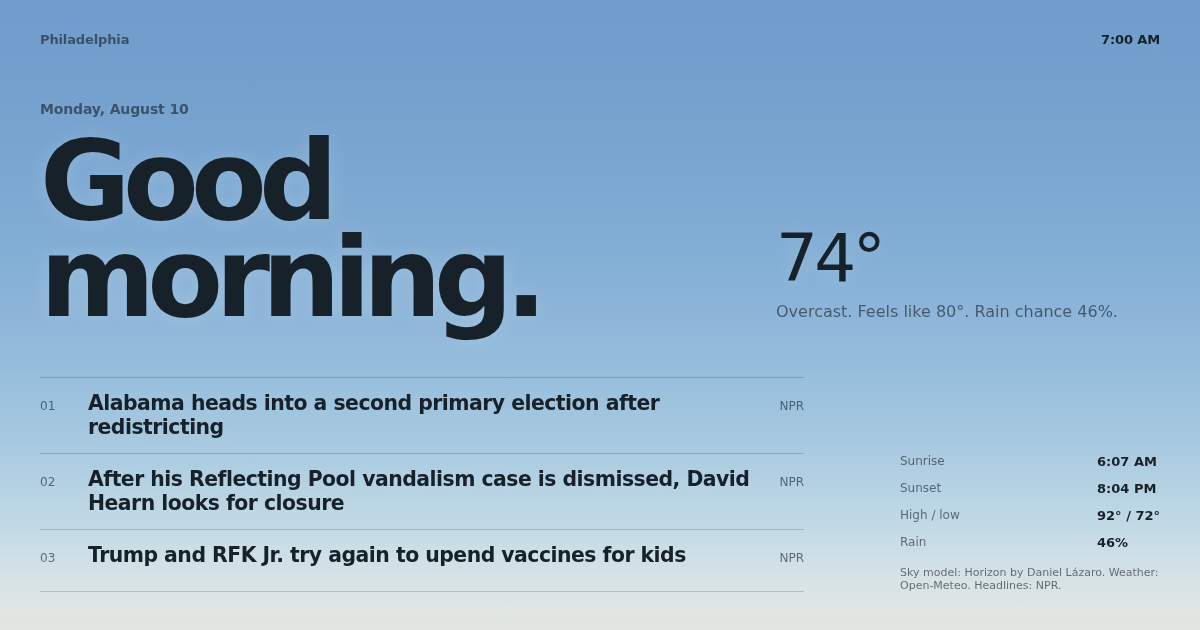
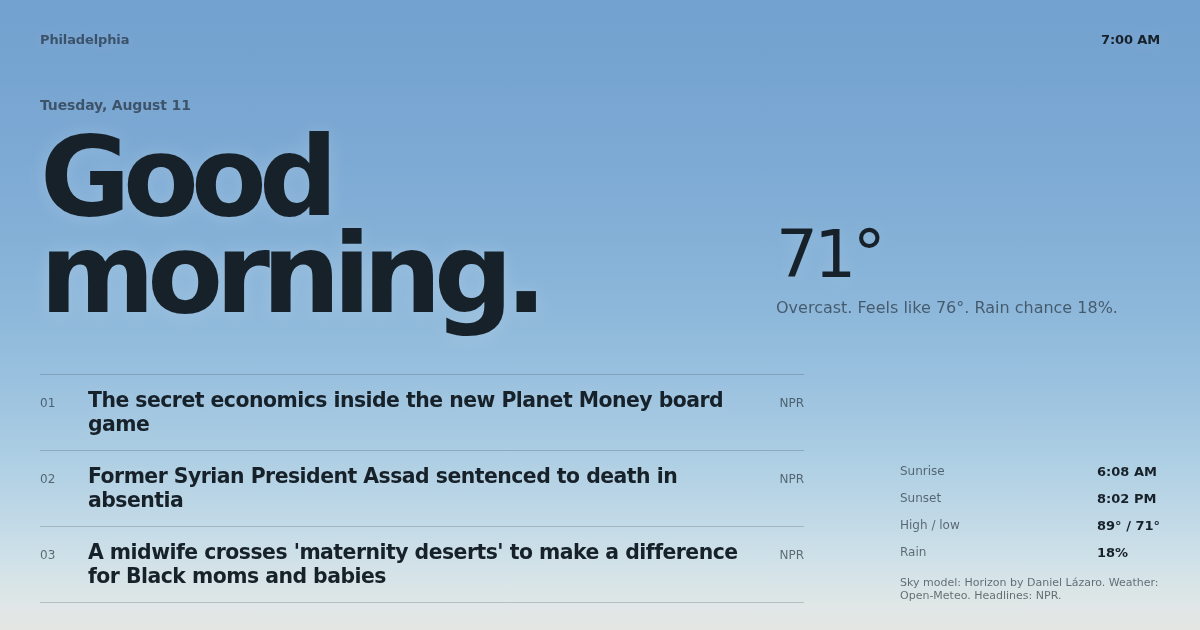
chore: refresh morning briefing 2026-08-11

diff --git a/index.html b/index.html
@@ -5,17 +5,17 @@
   <meta name="viewport" content="width=device-width, initial-scale=1">
   <meta name="color-scheme" content="light dark">
   <meta name="theme-color" content="#7595b2">
-  <meta name="description" content="Philadelphia morning briefing for 2026-08-10: Overcast. Feels like 80°. Rain chance 46%.">
+  <meta name="description" content="Philadelphia morning briefing for 2026-08-11: Overcast. Feels like 76°. Rain chance 18%.">
   <meta property="og:type" content="website">
   <meta property="og:title" content="Philadelphia morning briefing">
-  <meta property="og:description" content="Overcast. Feels like 80°. Rain chance 46%. Three stories for Monday, August 10.">
-  <meta property="og:url" content="https://evan-luther.github.io/morning-briefing/?date=2026-08-10">
-  <meta property="og:image" content="https://evan-luther.github.io/morning-briefing/briefing.png?v=2026-08-10">
+  <meta property="og:description" content="Overcast. Feels like 76°. Rain chance 18%. Three stories for Tuesday, August 11.">
+  <meta property="og:url" content="https://evan-luther.github.io/morning-briefing/?date=2026-08-11">
+  <meta property="og:image" content="https://evan-luther.github.io/morning-briefing/briefing.png?v=2026-08-11">
   <meta property="og:image:width" content="1200">
   <meta property="og:image:height" content="630">
   <meta property="og:image:alt" content="Philadelphia morning sky with today's briefing">
   <meta name="twitter:card" content="summary_large_image">
-  <title>Morning Briefing | Monday, August 10</title>
+  <title>Morning Briefing | Tuesday, August 11</title>
   <style>
     :root {
       --horizon: linear-gradient(to bottom, #7595b2, #dbb69d);
@@ -195,27 +195,27 @@
 
     <section class="lead" aria-labelledby="greeting">
       <div>
-        <p class="date">Monday, August 10</p>
+        <p class="date">Tuesday, August 11</p>
         <h1 id="greeting">Good morning.</h1>
       </div>
       <div class="weather">
-        <div class="temperature">74°</div>
-        <p>Overcast. Feels like 80°. Rain chance 46%.</p>
+        <div class="temperature">71°</div>
+        <p>Overcast. Feels like 76°. Rain chance 18%.</p>
       </div>
     </section>
 
     <section class="briefing" aria-label="Today's public briefing">
       <div class="stories">
-        <a class="story" href="https://www.npr.org/2026/08/10/nx-s1-5914823/alabama-heads-into-a-special-election-after-redistricting" target="_blank" rel="noreferrer"><span class="story-index">01</span><span class="story-title">Alabama heads into a second primary election after redistricting</span><span class="story-source">NPR</span></a>
-        <a class="story" href="https://www.npr.org/2026/08/10/nx-s1-5925117/reflecting-pool-david-hearn-legal-fight" target="_blank" rel="noreferrer"><span class="story-index">02</span><span class="story-title">After his Reflecting Pool vandalism case is dismissed, David Hearn looks for closure</span><span class="story-source">NPR</span></a>
-        <a class="story" href="https://www.npr.org/2026/08/10/nx-s1-5927313/trump-rfk-jr-vaccines-autism-executive-order" target="_blank" rel="noreferrer"><span class="story-index">03</span><span class="story-title">Trump and RFK Jr. try again to upend vaccines for kids</span><span class="story-source">NPR</span></a>
+        <a class="story" href="https://www.npr.org/sections/planet-money/2026/08/11/g-s1-138059/the-secret-economics-inside-the-new-planet-money-board-game" target="_blank" rel="noreferrer"><span class="story-index">01</span><span class="story-title">The secret economics inside the new Planet Money board game</span><span class="story-source">NPR</span></a>
+        <a class="story" href="https://www.npr.org/2026/08/11/g-s1-138166/syria-assad-sentenced-to-death" target="_blank" rel="noreferrer"><span class="story-index">02</span><span class="story-title">Former Syrian President Assad sentenced to death in absentia</span><span class="story-source">NPR</span></a>
+        <a class="story" href="https://www.npr.org/2026/08/11/nx-s1-5678523/maternity-desert-birth-midwife-black-moms-babies" target="_blank" rel="noreferrer"><span class="story-index">03</span><span class="story-title">A midwife crosses &#x27;maternity deserts&#x27; to make a difference for Black moms and babies</span><span class="story-source">NPR</span></a>
       </div>
       <div>
         <div class="daylight">
-          <span>Sunrise</span><strong>6:07 AM</strong>
-          <span>Sunset</span><strong>8:04 PM</strong>
-          <span>High / low</span><strong>92° / 72°</strong>
-          <span>Rain</span><strong>46%</strong>
+          <span>Sunrise</span><strong>6:08 AM</strong>
+          <span>Sunset</span><strong>8:02 PM</strong>
+          <span>High / low</span><strong>89° / 71°</strong>
+          <span>Rain</span><strong>18%</strong>
         </div>
         <div class="attribution">Sky model: Horizon by Daniel Lázaro. Weather: Open-Meteo. Headlines: NPR.</div>
       </div>
